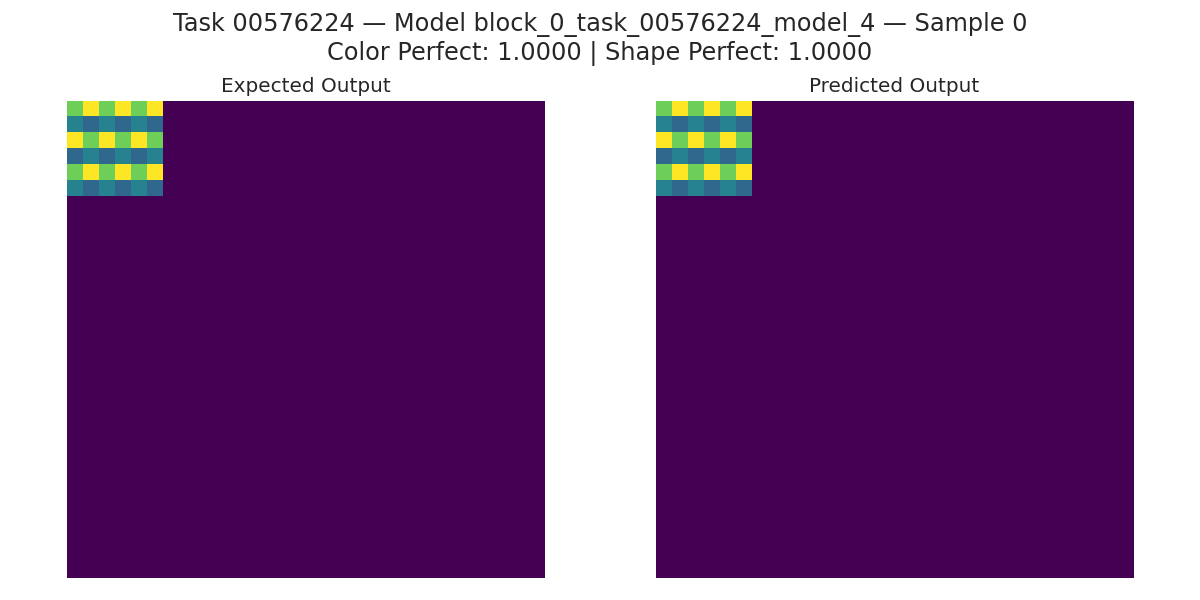
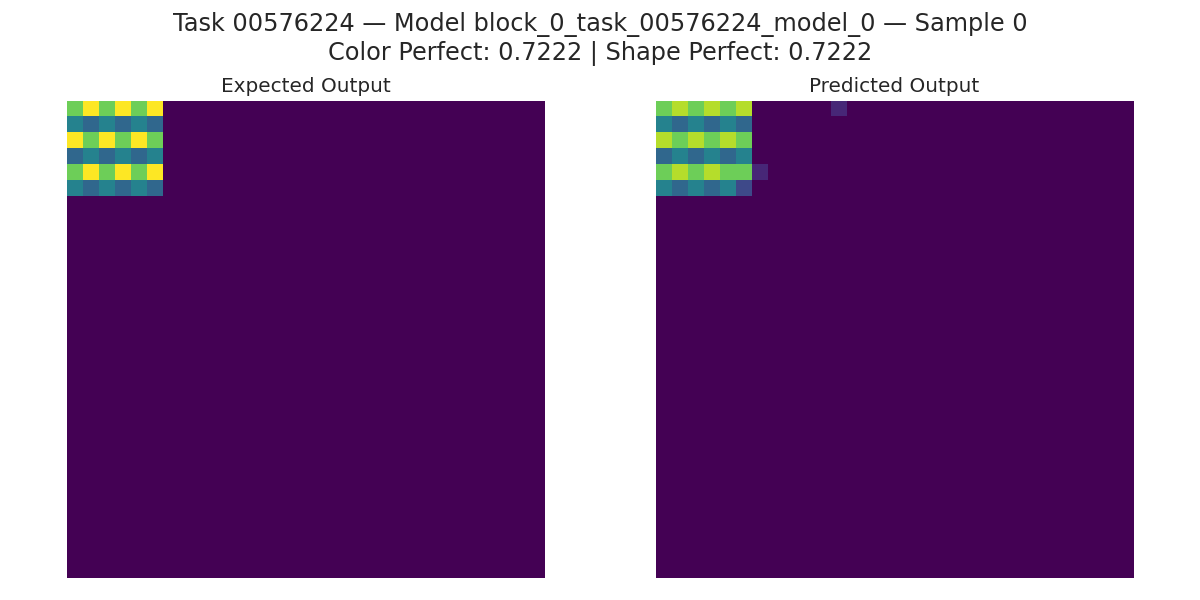
fixed logic in colors

diff --git a/court_logic.py b/court_logic.py
@@ -91,8 +91,8 @@ def arc_court_supreme(models, X_train, y_train, y_val, X_test, task_id=None, blo
 
     # ⬇ Usa a verdade objetiva (Y_val) como alvo para Suprema e Promotor
     y_sup = pixelwise_mode(preds_stack)
-    y_sup_recolorido = mapear_cores_para_x_test(y_sup, classes_validas)
-    y_antitese = inverter_classes_respeitando_valores(y_sup_recolorido, classes_validas, pad_value=pad_value)
+    y_sup_recolorido = mapear_cores_para_x_test(y_sup, classes_objetivo)
+    y_antitese = inverter_classes_respeitando_valores(y_sup_recolorido, classes_objetivo, pad_value=pad_value)
 
     y_sup_redi = expandir_para_3_canais(y_sup_recolorido)
     y_antitese_redi = expandir_para_3_canais(y_antitese)
@@ -108,11 +108,11 @@ def arc_court_supreme(models, X_train, y_train, y_val, X_test, task_id=None, blo
     while iter_count < max_cycles:
         log(f"[DEBUG] iter_count={iter_count}, block_idx={block_idx}, idx={idx}, task_id={task_id}")
         
-        if iter_count >= max_cycles/4:
-            votos_models[f"modelo_{0}"] = modelos[0](X_test, training=False)
         # Garante que os votos dos modelos 1–4 sejam mantidos ao longo do loop
         for i in range(0, 7):
             votos_models[f"modelo_{i}"] = votos_iniciais[f"modelo_{i}"]
+        if iter_count >= max_cycles/4:
+            votos_models[f"modelo_{0}"] = modelos[0](X_test, training=False)
 
         
         votos_models[f"modelo_{5}"] = modelos[5](X_test, training=False)
@@ -138,8 +138,8 @@ def arc_court_supreme(models, X_train, y_train, y_val, X_test, task_id=None, blo
         )
 
         y_sup = pixelwise_mode(preds_stack)
-        y_sup_recolorido = mapear_cores_para_x_test(y_sup, classes_validas)
-        y_antitese = inverter_classes_respeitando_valores(y_sup_recolorido, classes_validas, pad_value=pad_value)
+        y_sup_recolorido = mapear_cores_para_x_test(y_sup, classes_objetivo)
+        y_antitese = inverter_classes_respeitando_valores(y_sup_recolorido, classes_objetivo, pad_value=pad_value)
 
         y_sup_redi = expandir_para_3_canais(y_sup_recolorido)
         y_antitese_redi = expandir_para_3_canais(y_antitese)
@@ -150,12 +150,13 @@ def arc_court_supreme(models, X_train, y_train, y_val, X_test, task_id=None, blo
        
         if iter_count >= max_cycles / 4:
             y_pred = tf.argmax(modelos[0](X_test, training=False), axis=-1)
-            y_target = tf.argmax(y_sup_redi, axis=-1)
+            y_target = tf.argmax(y_sup, axis=-1)
             match = tf.reduce_mean(tf.cast(tf.equal(y_pred, y_target), tf.float32)).numpy()
             log(f"[MATCH] MATCH {match}")
-            if match < 0.97:
-                y_sup_recolorido = mapear_cores_para_x_test(y_sup, classes_objetivo)
-                treinar_modelo_com_y_sparse(modelos[0], X_test, y_sup_recolorido, epochs=epochs)
+            if match <= 1.00:
+                    y_sup_recolorido = mapear_cores_para_x_test(y_sup, classes_objetivo)
+                    y_sup_redi = expandir_para_3_canais(y_sup_recolorido)
+                    treinar_modelo_com_y_sparse(modelos[0], X_test, y_sup_redi, epochs=epochs)
         
 
         votos_models = garantir_dict_votos_models(votos_models)
